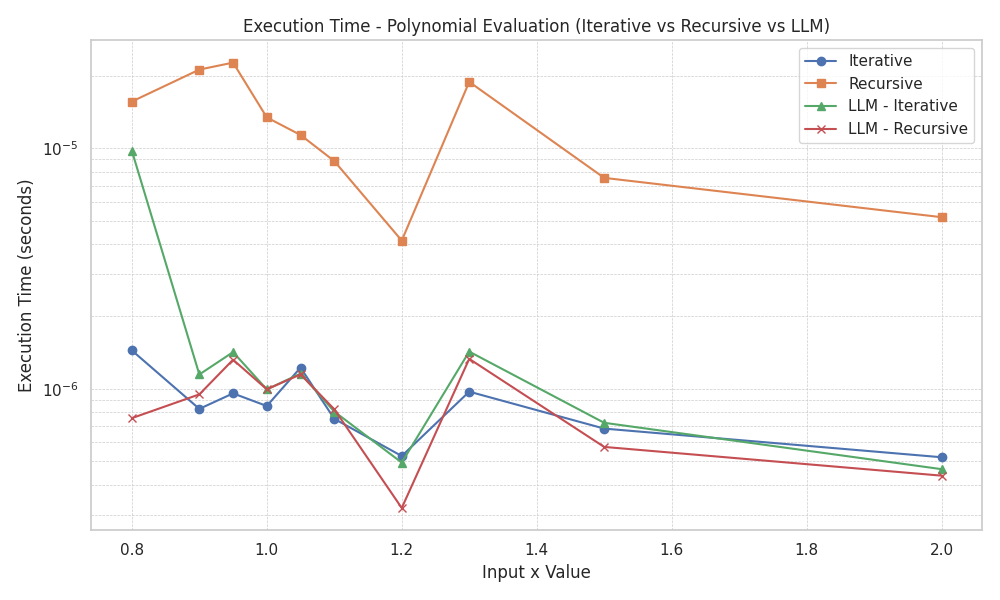
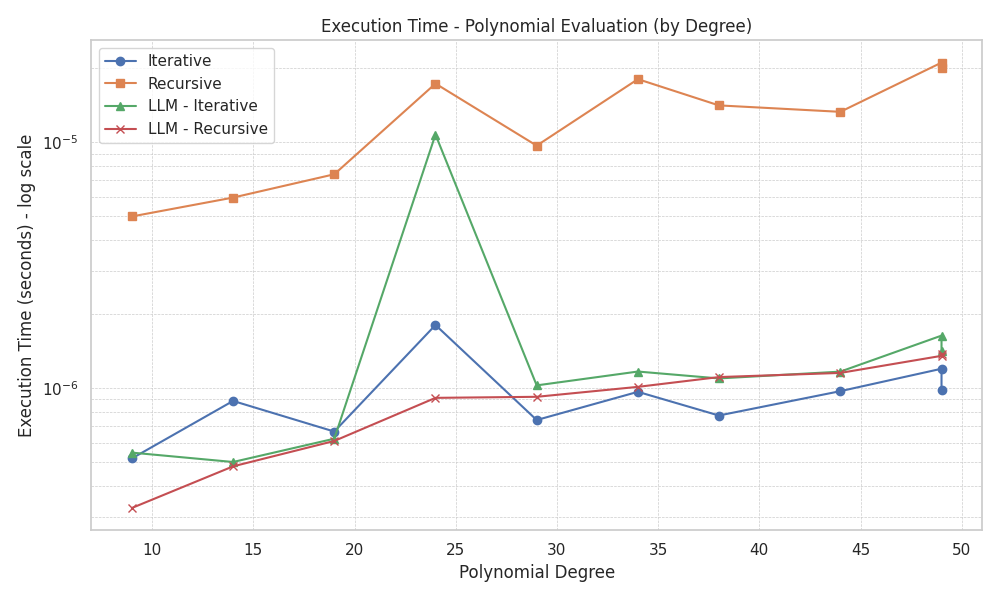
pequenas modificações nos gráficos

diff --git a/Trabalho 1/analysis/plot_results.py b/Trabalho 1/analysis/plot_results.py
@@ -24,48 +24,63 @@ def analyze_fibonacci(data):
     print("\nFibonacci - Execution Time Table:")
     print(df.to_string(index=False))
 
-    plt.figure(figsize=(10, 6))
-    plt.plot(df['n'], df['Iterative Time (s)'], marker='o', label='Iterative')
-    plt.plot(df['n'], df['Recursive Time (s)'], marker='s', label='Recursive')
-    if df['LLM Iterative Time (s)'].notnull().any():
-        plt.plot(df['n'], df['LLM Iterative Time (s)'], marker='^', label='LLM - Iterative')
-    if df['LLM Recursive Time (s)'].notnull().any():
-        plt.plot(df['n'], df['LLM Recursive Time (s)'], marker='x', label='LLM - Recursive')
+    fig, axes = plt.subplots(1, 2, figsize=(14, 6), sharex=True)
 
-    plt.title('Execution Time - Fibonacci (Iterative vs Recursive vs LLM)')
-    plt.xlabel('Input Size (n)')
-    plt.ylabel('Execution Time (seconds)')
-    plt.yscale('log')
-    plt.grid(True, which="both", linestyle='--', linewidth=0.5)
-    plt.legend()
+    axes[0].plot(df['n'], df['Iterative Time (s)'], marker='o', label='Iterative')
+    axes[0].plot(df['n'], df['Recursive Time (s)'], marker='s', label='Recursive')
+    if df['LLM Iterative Time (s)'].notnull().any():
+        axes[0].plot(df['n'], df['LLM Iterative Time (s)'], marker='^', label='LLM - Iterative')
+    if df['LLM Recursive Time (s)'].notnull().any():
+        axes[0].plot(df['n'], df['LLM Recursive Time (s)'], marker='x', label='LLM - Recursive')
+    axes[0].set_title('Fibonacci Execution Time (Linear Scale)')
+    axes[0].set_xlabel('Input Size (n)')
+    axes[0].set_ylabel('Execution Time (seconds)')
+    axes[0].grid(True, which="both", linestyle='--', linewidth=0.5)
+    axes[0].legend()
+
+    axes[1].plot(df['n'], df['Iterative Time (s)'], marker='o', label='Iterative')
+    axes[1].plot(df['n'], df['Recursive Time (s)'], marker='s', label='Recursive')
+    if df['LLM Iterative Time (s)'].notnull().any():
+        axes[1].plot(df['n'], df['LLM Iterative Time (s)'], marker='^', label='LLM - Iterative')
+    if df['LLM Recursive Time (s)'].notnull().any():
+        axes[1].plot(df['n'], df['LLM Recursive Time (s)'], marker='x', label='LLM - Recursive')
+    axes[1].set_title('Fibonacci Execution Time (Log Scale)')
+    axes[1].set_xlabel('Input Size (n)')
+    axes[1].set_ylabel('Execution Time (seconds) - log scale')
+    axes[1].set_yscale('log')
+    axes[1].grid(True, which="both", linestyle='--', linewidth=0.5)
+    axes[1].legend()
+
     plt.tight_layout()
-    plt.savefig('results/plots/fibonacci_execution_time.png')
+    plt.savefig('results/plots/fibonacci_execution_time_linear_vs_log.png')
     plt.show()
 
 def analyze_polynomial(data):
     poly_data = data['polynomial']
     df = pd.DataFrame([{
-        'x': entry['x'],
+        'Degree': len(entry.get('coefficients', [])) - 1,
         'Iterative Time (s)': entry.get('iterative', {}).get('time', None),
         'Recursive Time (s)': entry.get('recursive', {}).get('time', None),
         'LLM Iterative Time (s)': entry.get('llm - iterative', {}).get('time', None),
         'LLM Recursive Time (s)': entry.get('llm - recursive', {}).get('time', None),
     } for entry in poly_data])
 
+    df = df.sort_values(by='Degree')
+
     print("\nPolynomial - Execution Time Table:")
     print(df.to_string(index=False))
 
     plt.figure(figsize=(10, 6))
-    plt.plot(df['x'], df['Iterative Time (s)'], marker='o', label='Iterative')
-    plt.plot(df['x'], df['Recursive Time (s)'], marker='s', label='Recursive')
+    plt.plot(df['Degree'], df['Iterative Time (s)'], marker='o', label='Iterative')
+    plt.plot(df['Degree'], df['Recursive Time (s)'], marker='s', label='Recursive')
     if df['LLM Iterative Time (s)'].notnull().any():
-        plt.plot(df['x'], df['LLM Iterative Time (s)'], marker='^', label='LLM - Iterative')
+        plt.plot(df['Degree'], df['LLM Iterative Time (s)'], marker='^', label='LLM - Iterative')
     if df['LLM Recursive Time (s)'].notnull().any():
-        plt.plot(df['x'], df['LLM Recursive Time (s)'], marker='x', label='LLM - Recursive')
+        plt.plot(df['Degree'], df['LLM Recursive Time (s)'], marker='x', label='LLM - Recursive')
 
-    plt.title('Execution Time - Polynomial Evaluation (Iterative vs Recursive vs LLM)')
-    plt.xlabel('Input x Value')
-    plt.ylabel('Execution Time (seconds)')
+    plt.title('Execution Time - Polynomial Evaluation (by Degree)')
+    plt.xlabel('Polynomial Degree')
+    plt.ylabel('Execution Time (seconds) - log scale')
     plt.yscale('log')
     plt.grid(True, which="both", linestyle='--', linewidth=0.5)
     plt.legend()
